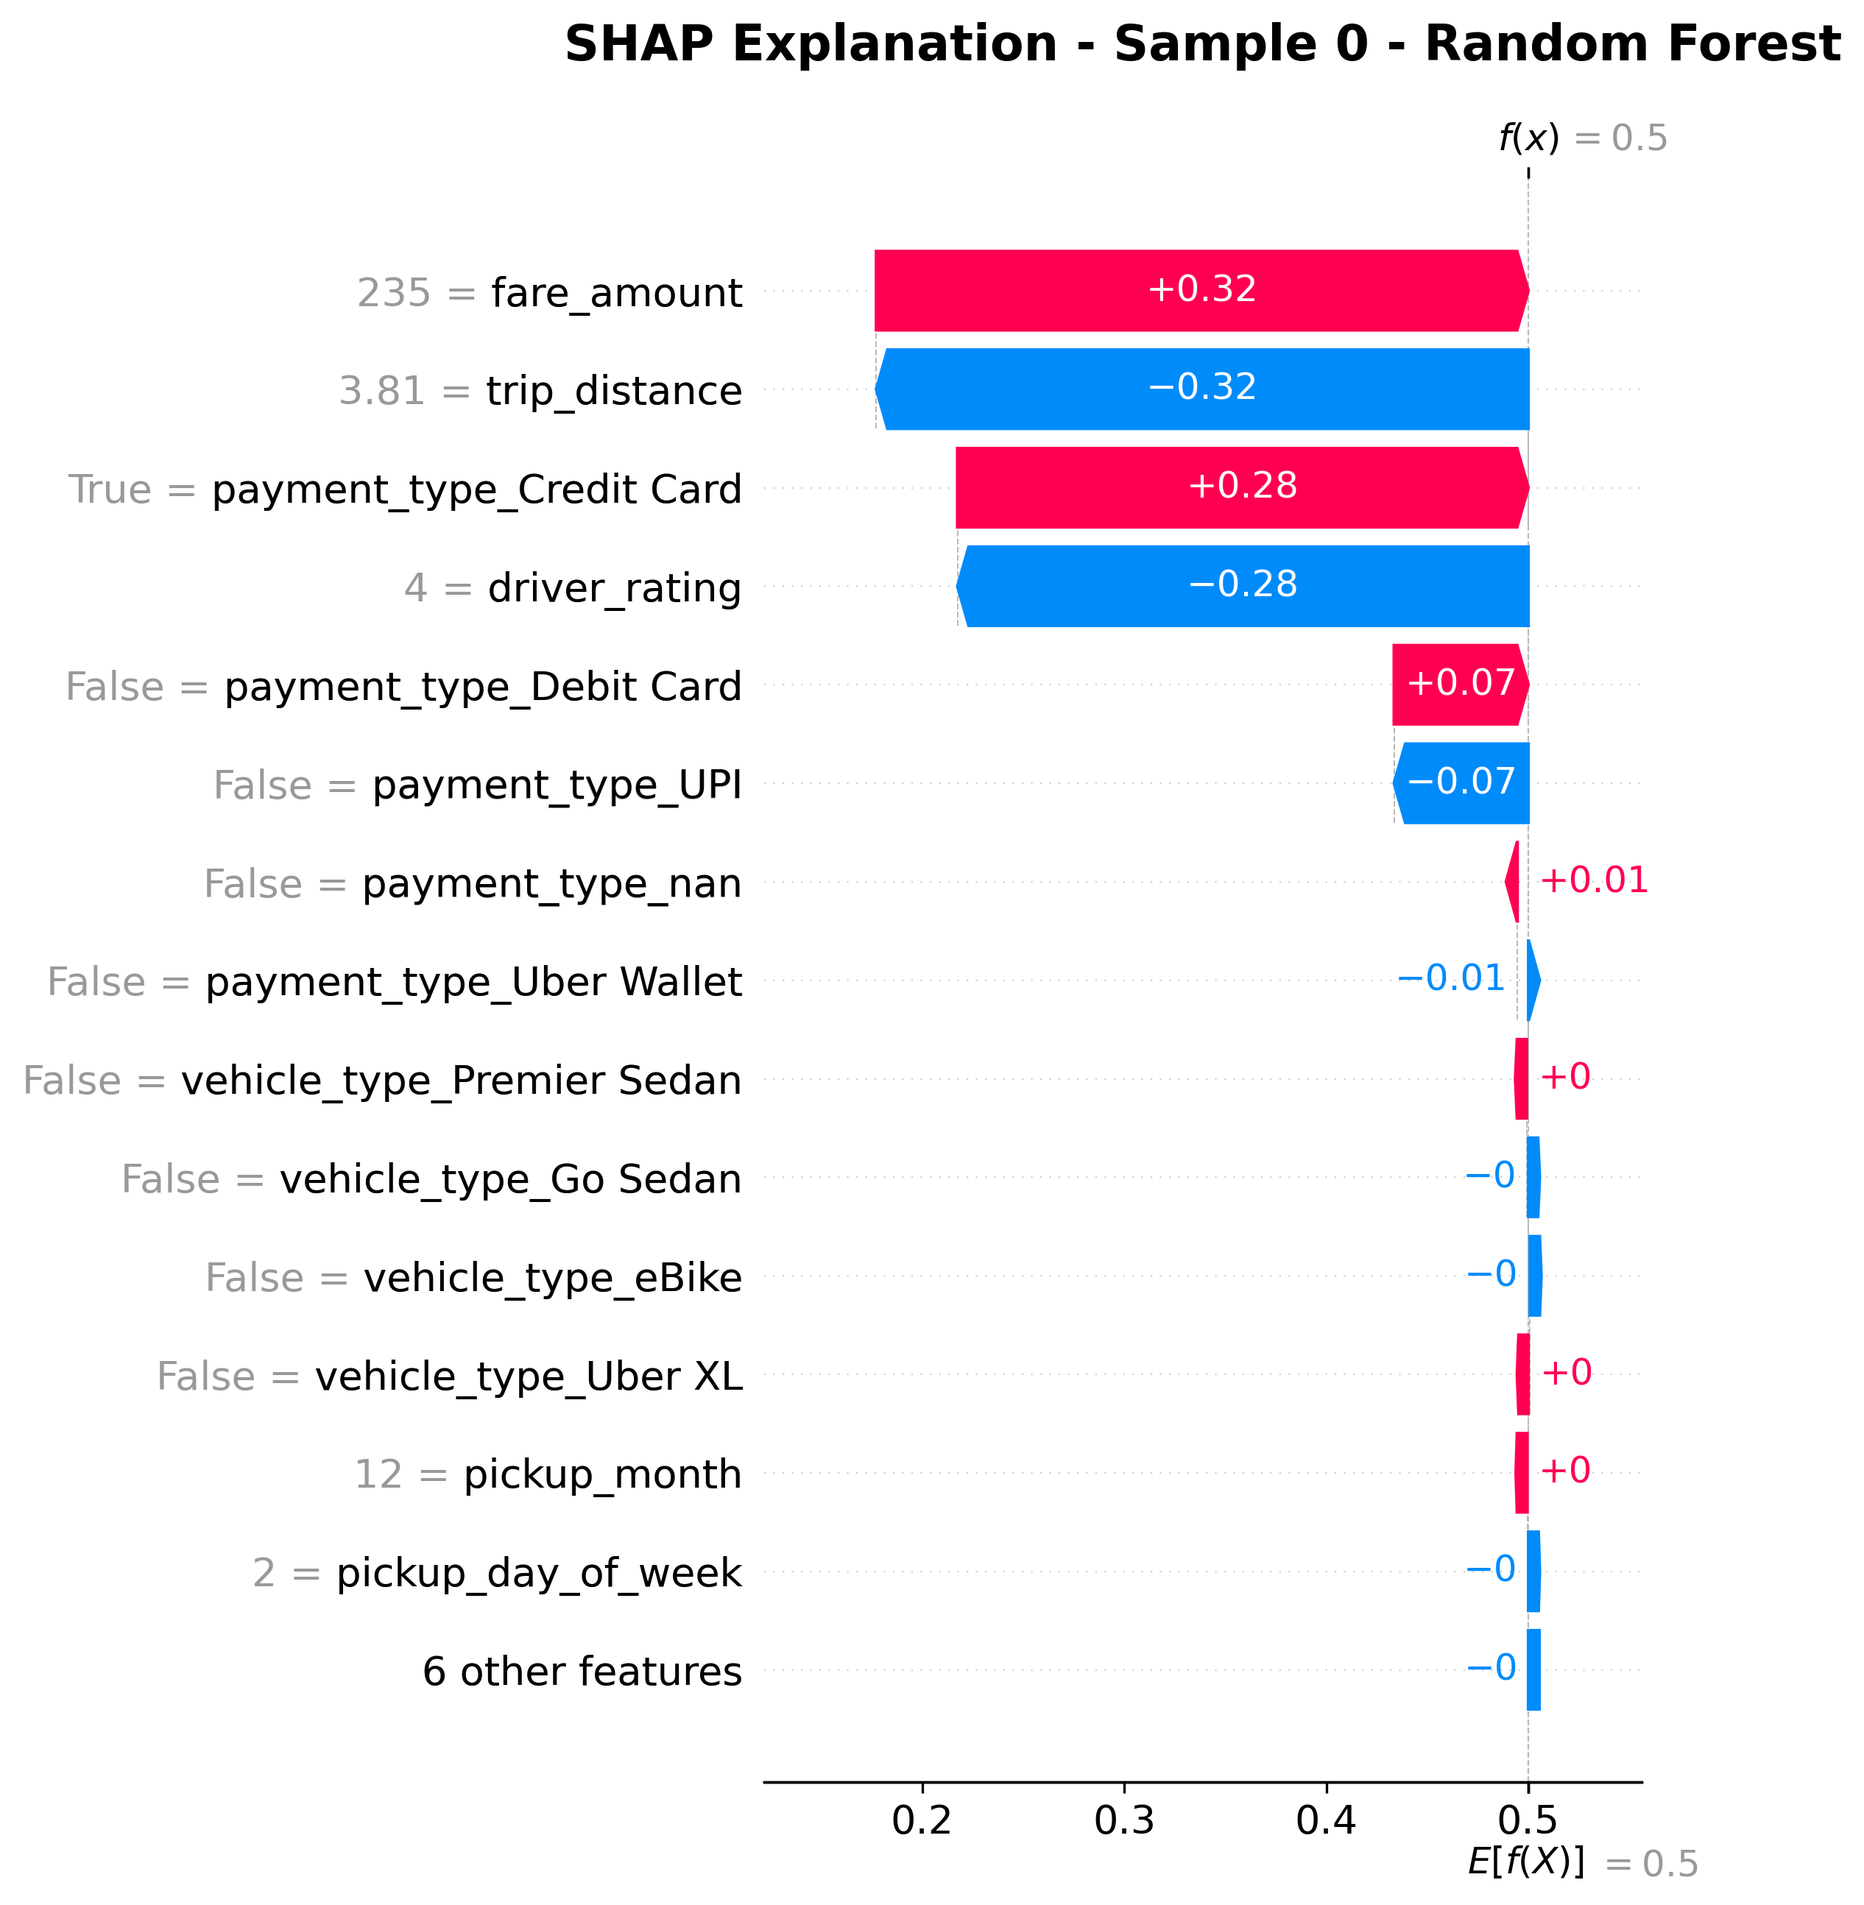
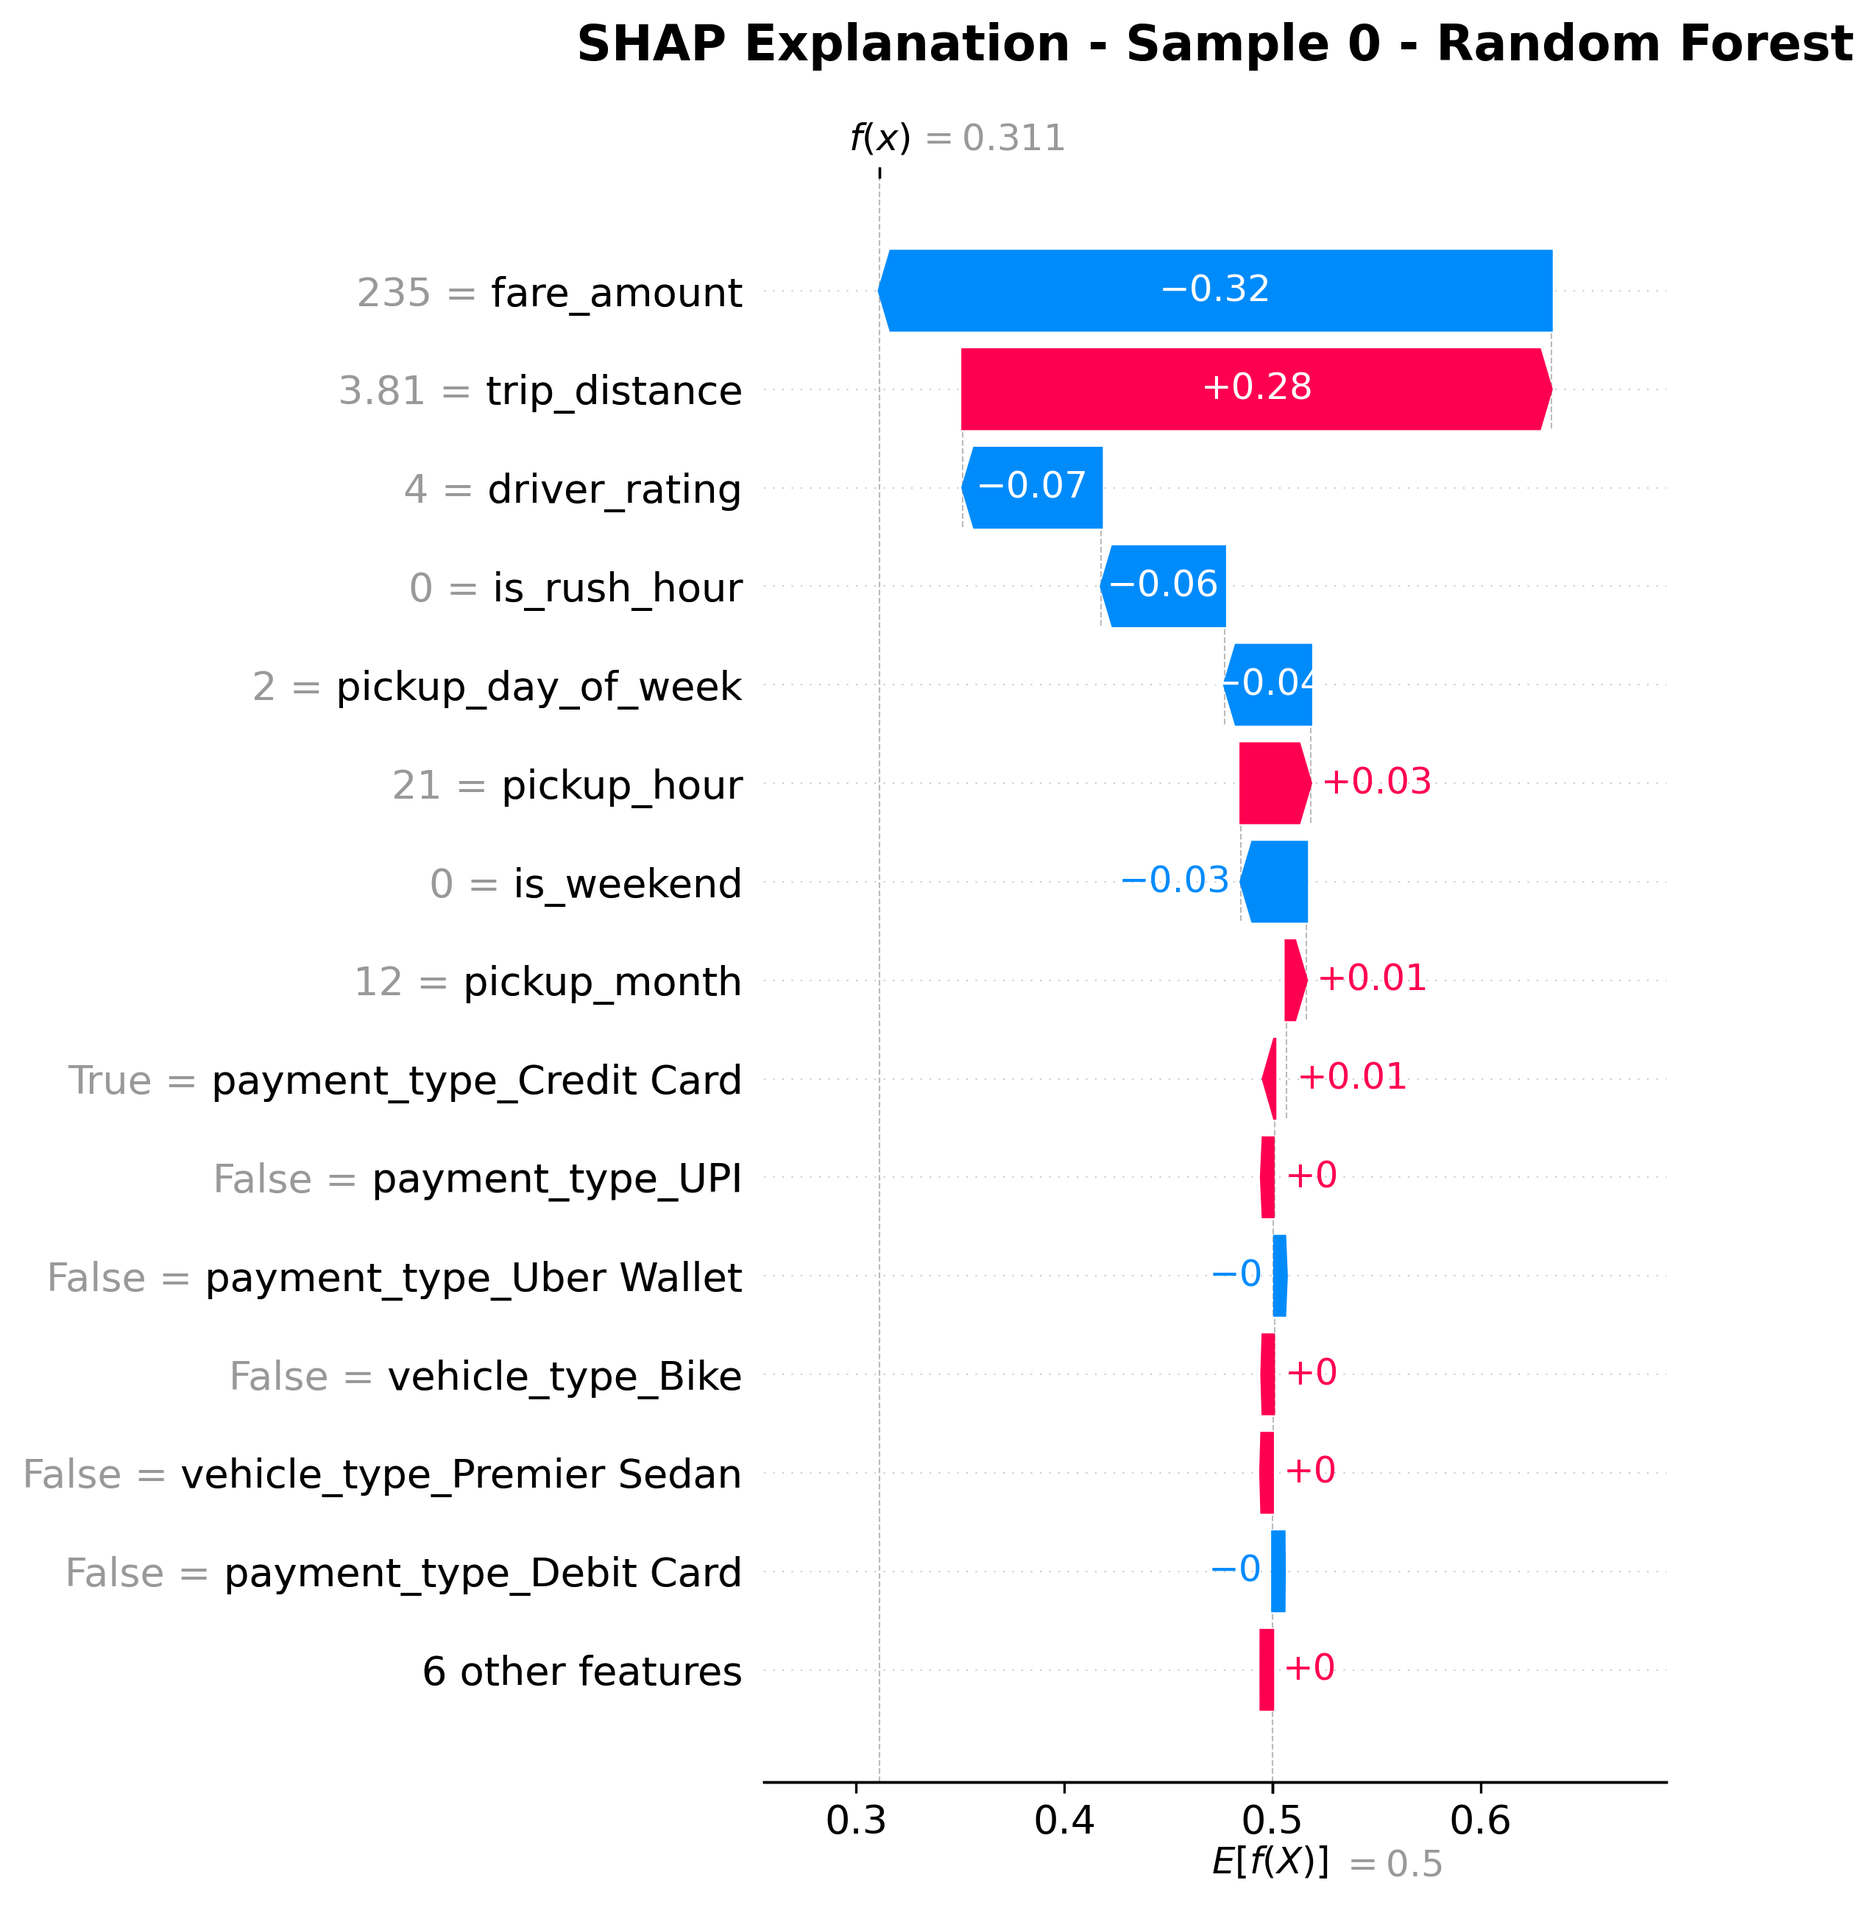
fixed shap

diff --git a/src/advanced_models.py b/src/advanced_models.py
@@ -227,9 +227,9 @@ class SmartRideAdvancedModels:
         # Train logistic regression with same parameters as baseline
         self.baseline_model = LogisticRegression(
             random_state=self.random_state,
-            max_iter=500,
+            max_iter=1000,
             solver='lbfgs',
-            C=0.5
+            C=0.1
         )
         
         self.baseline_model.fit(self.X_train_scaled, self.y_train)
@@ -564,20 +564,87 @@ class SmartRideAdvancedModels:
         
         # Calculate SHAP values
         print("Calculating SHAP values...")
-        shap_values = explainer.shap_values(X_sample)
-        
-        # For binary classification, handle both single and double output
-        if isinstance(shap_values, list):
-            shap_values = shap_values[1]  # Use positive class
-        
-        # Ensure shap_values is numpy array
-        shap_values = np.array(shap_values)
+        shap_values_raw = explainer.shap_values(X_sample)
         
         # Get actual feature names from sample data
         if hasattr(X_sample, 'columns'):
             actual_feature_names = list(X_sample.columns)
         else:
             actual_feature_names = self.feature_columns
+        n_features = len(actual_feature_names)
+        n_samples = len(X_sample) if hasattr(X_sample, '__len__') else 1
+        
+        # Debug: Print raw SHAP shape
+        print(f"  Raw SHAP values type: {type(shap_values_raw)}")
+        if isinstance(shap_values_raw, list):
+            print(f"  SHAP list length: {len(shap_values_raw)}")
+            for i, sv in enumerate(shap_values_raw):
+                print(f"    Class {i} shape: {np.array(sv).shape}")
+        else:
+            print(f"  SHAP array shape: {np.array(shap_values_raw).shape}")
+        
+        # For binary classification, handle different output formats
+        if isinstance(shap_values_raw, list):
+            # List format: [shap_class_0, shap_class_1] for binary classification
+            # Each element should be shape (n_samples, n_features)
+            if len(shap_values_raw) == 2:
+                # Binary classification - use positive class (index 1)
+                shap_values = np.array(shap_values_raw[1])
+                print(f"  Using positive class (index 1), shape: {shap_values.shape}")
+            else:
+                # Multi-class or unexpected format
+                shap_values = np.array(shap_values_raw[1] if len(shap_values_raw) > 1 else shap_values_raw[0])
+                print(f"  Using class index 1 from {len(shap_values_raw)} classes, shape: {shap_values.shape}")
+        else:
+            # Single array format
+            shap_values = np.array(shap_values_raw)
+            print(f"  Single array format, shape: {shap_values.shape}")
+        
+        # Handle shape issues - ensure 2D array (n_samples, n_features)
+        if len(shap_values.shape) == 3:
+            # Shape is (n_samples, n_features, n_classes) - take positive class
+            if shap_values.shape[2] == 2:
+                shap_values = shap_values[:, :, 1]  # Positive class for binary
+                print(f"  Extracted positive class from 3D array, new shape: {shap_values.shape}")
+            else:
+                shap_values = shap_values[:, :, 0]
+                print(f"  Extracted first class from 3D array, new shape: {shap_values.shape}")
+        elif len(shap_values.shape) == 1:
+            # Single sample case - reshape to (1, n_features)
+            if shap_values.shape[0] == n_features:
+                shap_values = shap_values.reshape(1, -1)
+            elif shap_values.shape[0] == n_features * 2:
+                # Both classes concatenated - take second half (positive class)
+                shap_values = shap_values[n_features:].reshape(1, -1)
+                print(f"  Extracted positive class from concatenated 1D array")
+            else:
+                # Try to reshape based on number of samples
+                if shap_values.shape[0] == n_samples * n_features:
+                    shap_values = shap_values.reshape(n_samples, n_features)
+                elif shap_values.shape[0] == n_samples * n_features * 2:
+                    # Both classes - take positive class
+                    shap_values = shap_values[n_samples * n_features:].reshape(n_samples, n_features)
+                    print(f"  Extracted positive class from concatenated array")
+        
+        # Ensure shape matches number of features
+        if shap_values.shape[1] != n_features:
+            # If we have more columns than features, this is likely an error
+            if shap_values.shape[1] == n_features * 2:
+                # Both classes side by side - take second half
+                print(f"  Detected both classes side-by-side, extracting positive class")
+                shap_values = shap_values[:, n_features:]
+            elif shap_values.shape[1] > n_features:
+                print(f"  Warning: SHAP returned {shap_values.shape[1]} values for {n_features} features. Taking first {n_features}.")
+                shap_values = shap_values[:, :n_features]
+            elif shap_values.shape[1] < n_features:
+                print(f"  Warning: SHAP returned {shap_values.shape[1]} values for {n_features} features. This may indicate an issue.")
+        
+        # Final check - ensure we have correct shape
+        if shap_values.shape[1] != n_features:
+            raise ValueError(f"SHAP shape mismatch: expected {n_features} features, got {shap_values.shape[1]}. "
+                           f"SHAP shape: {shap_values.shape}, n_samples: {n_samples}, n_features: {n_features}")
+        
+        print(f"  Final SHAP values shape: {shap_values.shape} (should be ({n_samples}, {n_features}))")
         
         setattr(self, values_attr, shap_values)
         
@@ -665,28 +732,17 @@ class SmartRideAdvancedModels:
         plt.close('all')
         
         # Print top features
+        # Calculate mean absolute SHAP values across samples
         mean_abs_shap = np.abs(shap_values).mean(axis=0)
-        # Ensure 1D array
-        if len(mean_abs_shap.shape) > 1:
-            mean_abs_shap = mean_abs_shap.flatten()
         
-        # Ensure arrays match in length
-        n_features = len(actual_feature_names)
-        n_shap = len(mean_abs_shap)
+        # Ensure 1D array matching number of features
+        mean_abs_shap = mean_abs_shap.flatten()[:n_features]
         
-        if n_shap != n_features:
-            # Take only the matching number of features
-            min_len = min(n_features, n_shap)
-            feature_importance_shap = pd.DataFrame({
-                'feature': actual_feature_names[:min_len],
-                'mean_abs_shap': mean_abs_shap[:min_len]
-            }).sort_values('mean_abs_shap', ascending=False)
-            print(f"Warning: Feature count mismatch (features: {n_features}, SHAP: {n_shap}). Using first {min_len}.")
-        else:
-            feature_importance_shap = pd.DataFrame({
-                'feature': actual_feature_names,
-                'mean_abs_shap': mean_abs_shap
-            }).sort_values('mean_abs_shap', ascending=False)
+        # Create feature importance dataframe
+        feature_importance_shap = pd.DataFrame({
+            'feature': actual_feature_names,
+            'mean_abs_shap': mean_abs_shap
+        }).sort_values('mean_abs_shap', ascending=False)
         
         print(f"\nTop 15 Most Important Features (by mean |SHAP value|):")
         print("-" * 60)
@@ -743,54 +799,80 @@ class SmartRideAdvancedModels:
             actual_feature_names = list(X_single.columns)
         else:
             actual_feature_names = self.feature_columns
+        n_features = len(actual_feature_names)
         
         # Calculate SHAP values
-        shap_values = explainer.shap_values(X_single)
-        if isinstance(shap_values, list):
-            shap_values = shap_values[1]
+        shap_values_raw = explainer.shap_values(X_single)
         
-        # Ensure numpy array
-        shap_values = np.array(shap_values)
-        
-        # Get prediction
-        if model_type == 'random_forest':
-            prediction = model.predict(X_single)[0]
-            proba = model.predict_proba(X_single)[0]
+        # For binary classification, handle different output formats
+        if isinstance(shap_values_raw, list):
+            # List format: [shap_class_0, shap_class_1] for binary classification
+            if len(shap_values_raw) == 2:
+                # Binary classification - use positive class (index 1)
+                shap_values = np.array(shap_values_raw[1])
+            else:
+                # Multi-class or unexpected format
+                shap_values = np.array(shap_values_raw[1] if len(shap_values_raw) > 1 else shap_values_raw[0])
         else:
-            prediction = model.predict(X_single)[0]
-            proba = model.predict_proba(X_single)[0]
+            # Single array format
+            shap_values = np.array(shap_values_raw)
         
-        print(f"\nSample Index: {sample_index}")
-        print(f"Prediction: {prediction} ({'Accept' if prediction == 1 else 'Reject'})")
-        print(f"Probability: Reject={proba[0]:.4f}, Accept={proba[1]:.4f}")
-        print(f"Actual: {self.y_test.iloc[sample_index]}")
+        # Handle shape issues - ensure 2D array (n_samples, n_features)
+        if len(shap_values.shape) == 3:
+            # Shape is (n_samples, n_features, n_classes) - take positive class
+            if shap_values.shape[2] == 2:
+                shap_values = shap_values[:, :, 1]  # Positive class for binary
+            else:
+                shap_values = shap_values[:, :, 0]
+        elif len(shap_values.shape) == 1:
+            # Single sample case - reshape to (1, n_features)
+            if shap_values.shape[0] == n_features:
+                shap_values = shap_values.reshape(1, -1)
+            elif shap_values.shape[0] == n_features * 2:
+                # Both classes concatenated - take second half (positive class)
+                shap_values = shap_values[n_features:].reshape(1, -1)
+            else:
+                # Try to reshape
+                if shap_values.shape[0] == n_features:
+                    shap_values = shap_values.reshape(1, -1)
         
-        # Handle shap_values shape and prepare variables FIRST
+        # Ensure shape matches number of features
+        if shap_values.shape[1] != n_features:
+            if shap_values.shape[1] == n_features * 2:
+                # Both classes side by side - take second half
+                shap_values = shap_values[:, n_features:]
+            elif shap_values.shape[1] > n_features:
+                shap_values = shap_values[:, :n_features]
+            elif shap_values.shape[1] < n_features and shap_values.shape[0] == 1:
+                # Single sample with wrong shape - try to fix
+                if shap_values.shape[1] * 2 == n_features:
+                    # Might be interleaved
+                    shap_values = shap_values[:, ::2]  # Take every other
+        
+        # Final check - ensure we have correct shape
+        if shap_values.shape[1] != n_features:
+            raise ValueError(f"SHAP shape mismatch: expected {n_features} features, got {shap_values.shape[1]}. "
+                           f"SHAP shape: {shap_values.shape}, n_features: {n_features}")
+        
+        # Extract SHAP values for single sample (should be shape (1, n_features) after our fix)
         if len(shap_values.shape) > 1:
-            shap_vals = shap_values[0]
+            shap_vals = shap_values[0]  # Get first (and only) sample
         else:
             shap_vals = shap_values
         
-        shap_vals = np.array(shap_vals).flatten()
+        shap_vals = np.array(shap_vals).flatten()[:n_features]  # Ensure correct length
         
+        # Get feature values
         if hasattr(X_single, 'iloc'):
             feature_vals = X_single.iloc[0].values
         else:
             feature_vals = np.array(X_single[0]).flatten()
         
-        # Ensure arrays match in length BEFORE plotting
-        n_features = len(actual_feature_names)
-        n_shap = len(shap_vals)
-        n_vals = len(feature_vals)
-        min_len = min(n_features, n_shap, n_vals)
-        if min_len == 0:
-            print("Warning: No features to display")
-            return
+        feature_vals = feature_vals[:n_features]  # Ensure correct length
         
-        # Truncate to common length so SHAP waterfall does not index out of bounds
-        actual_feature_names = actual_feature_names[:min_len]
-        shap_vals = shap_vals[:min_len]
-        feature_vals = feature_vals[:min_len]
+        # Final check - arrays should match
+        assert len(shap_vals) == len(feature_vals) == len(actual_feature_names), \
+            f"Length mismatch: SHAP={len(shap_vals)}, features={len(feature_vals)}, names={len(actual_feature_names)}"
         
         # Create waterfall plot
         if model_type == 'random_forest':
